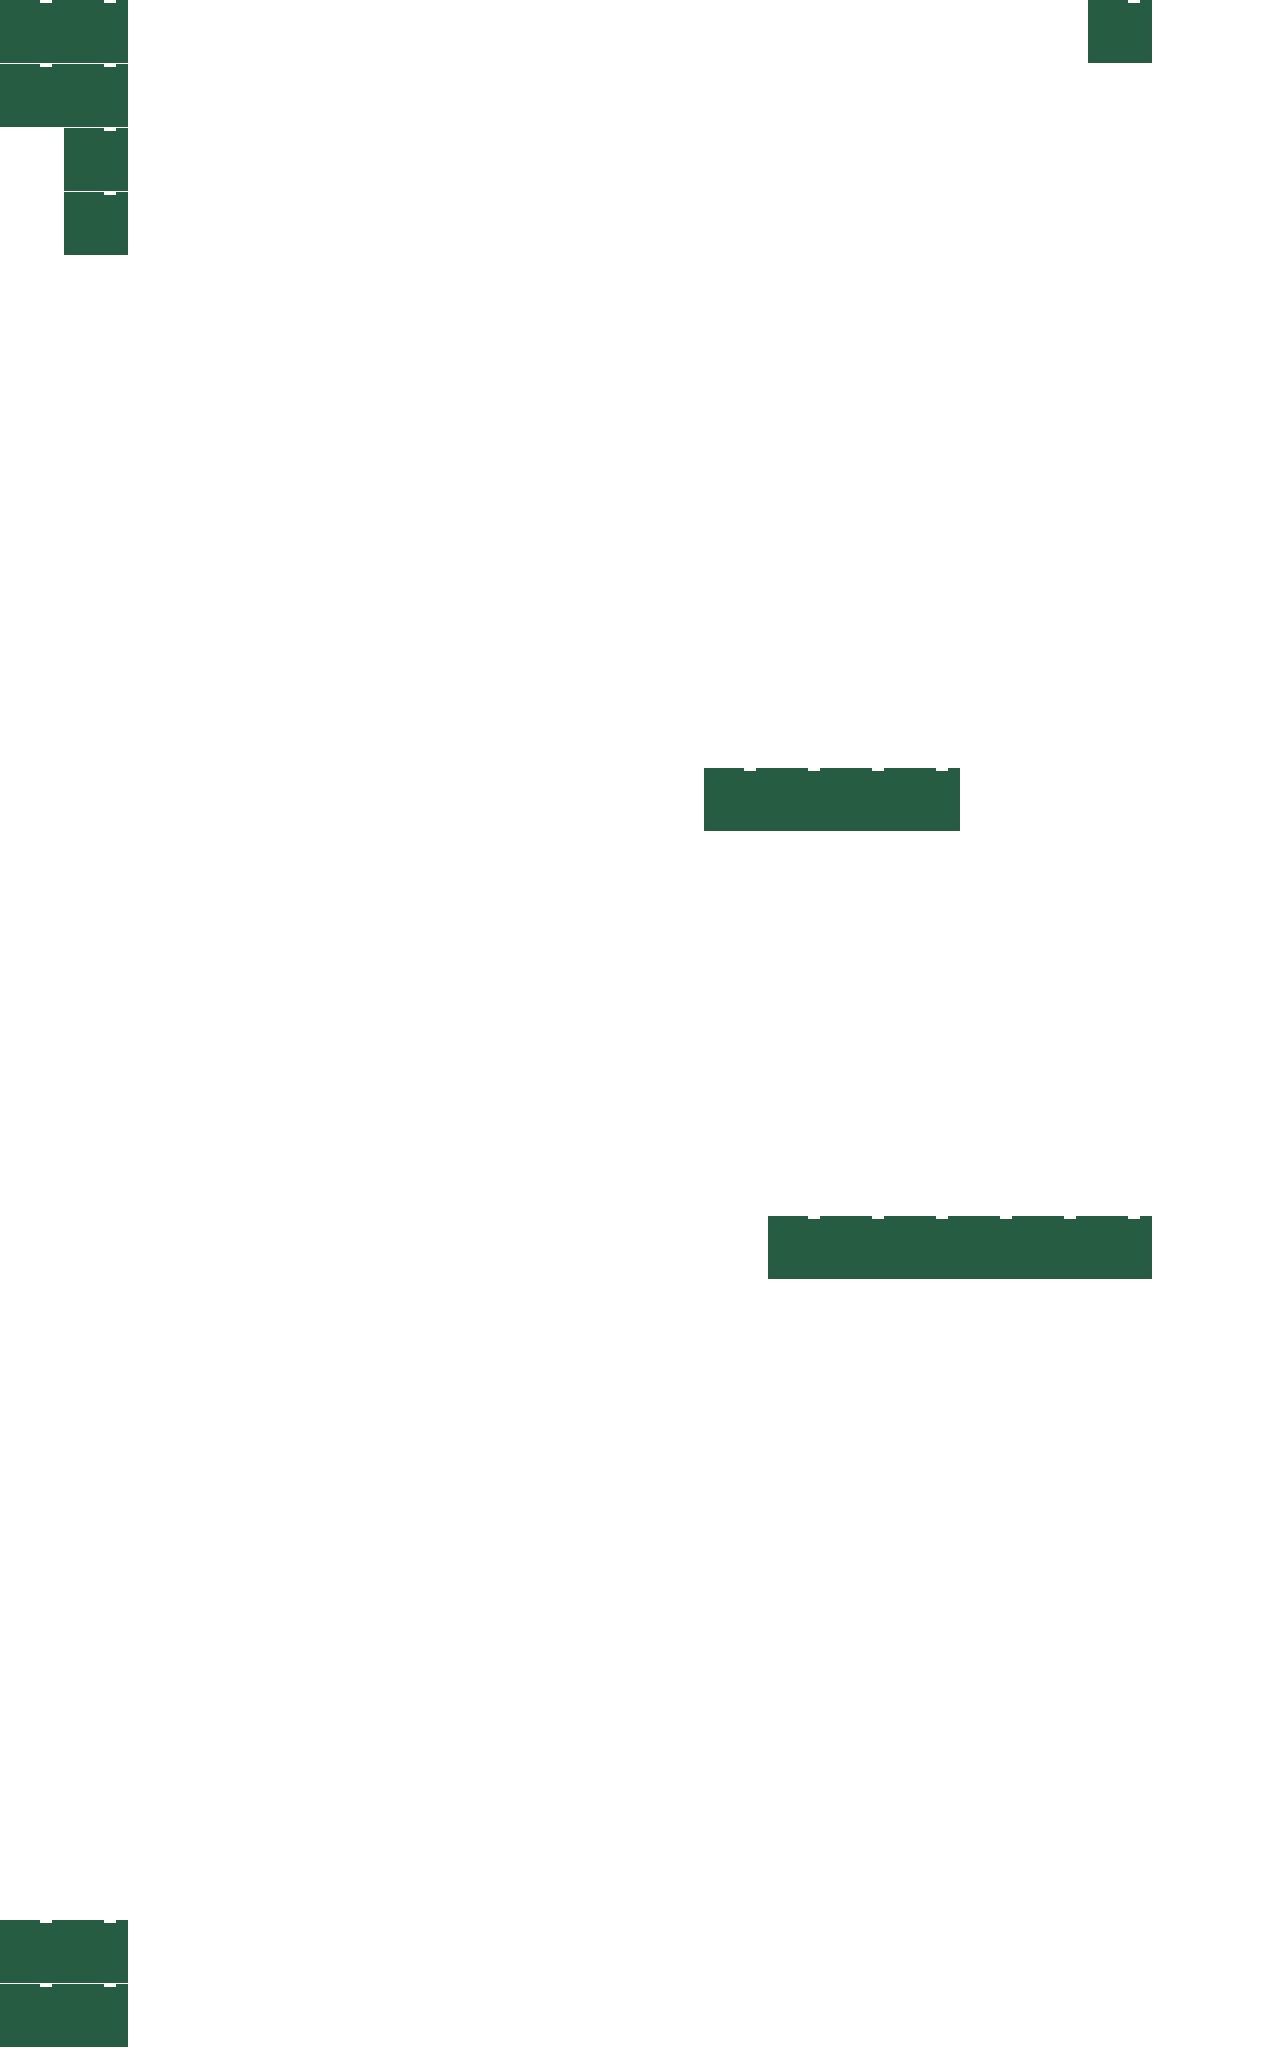
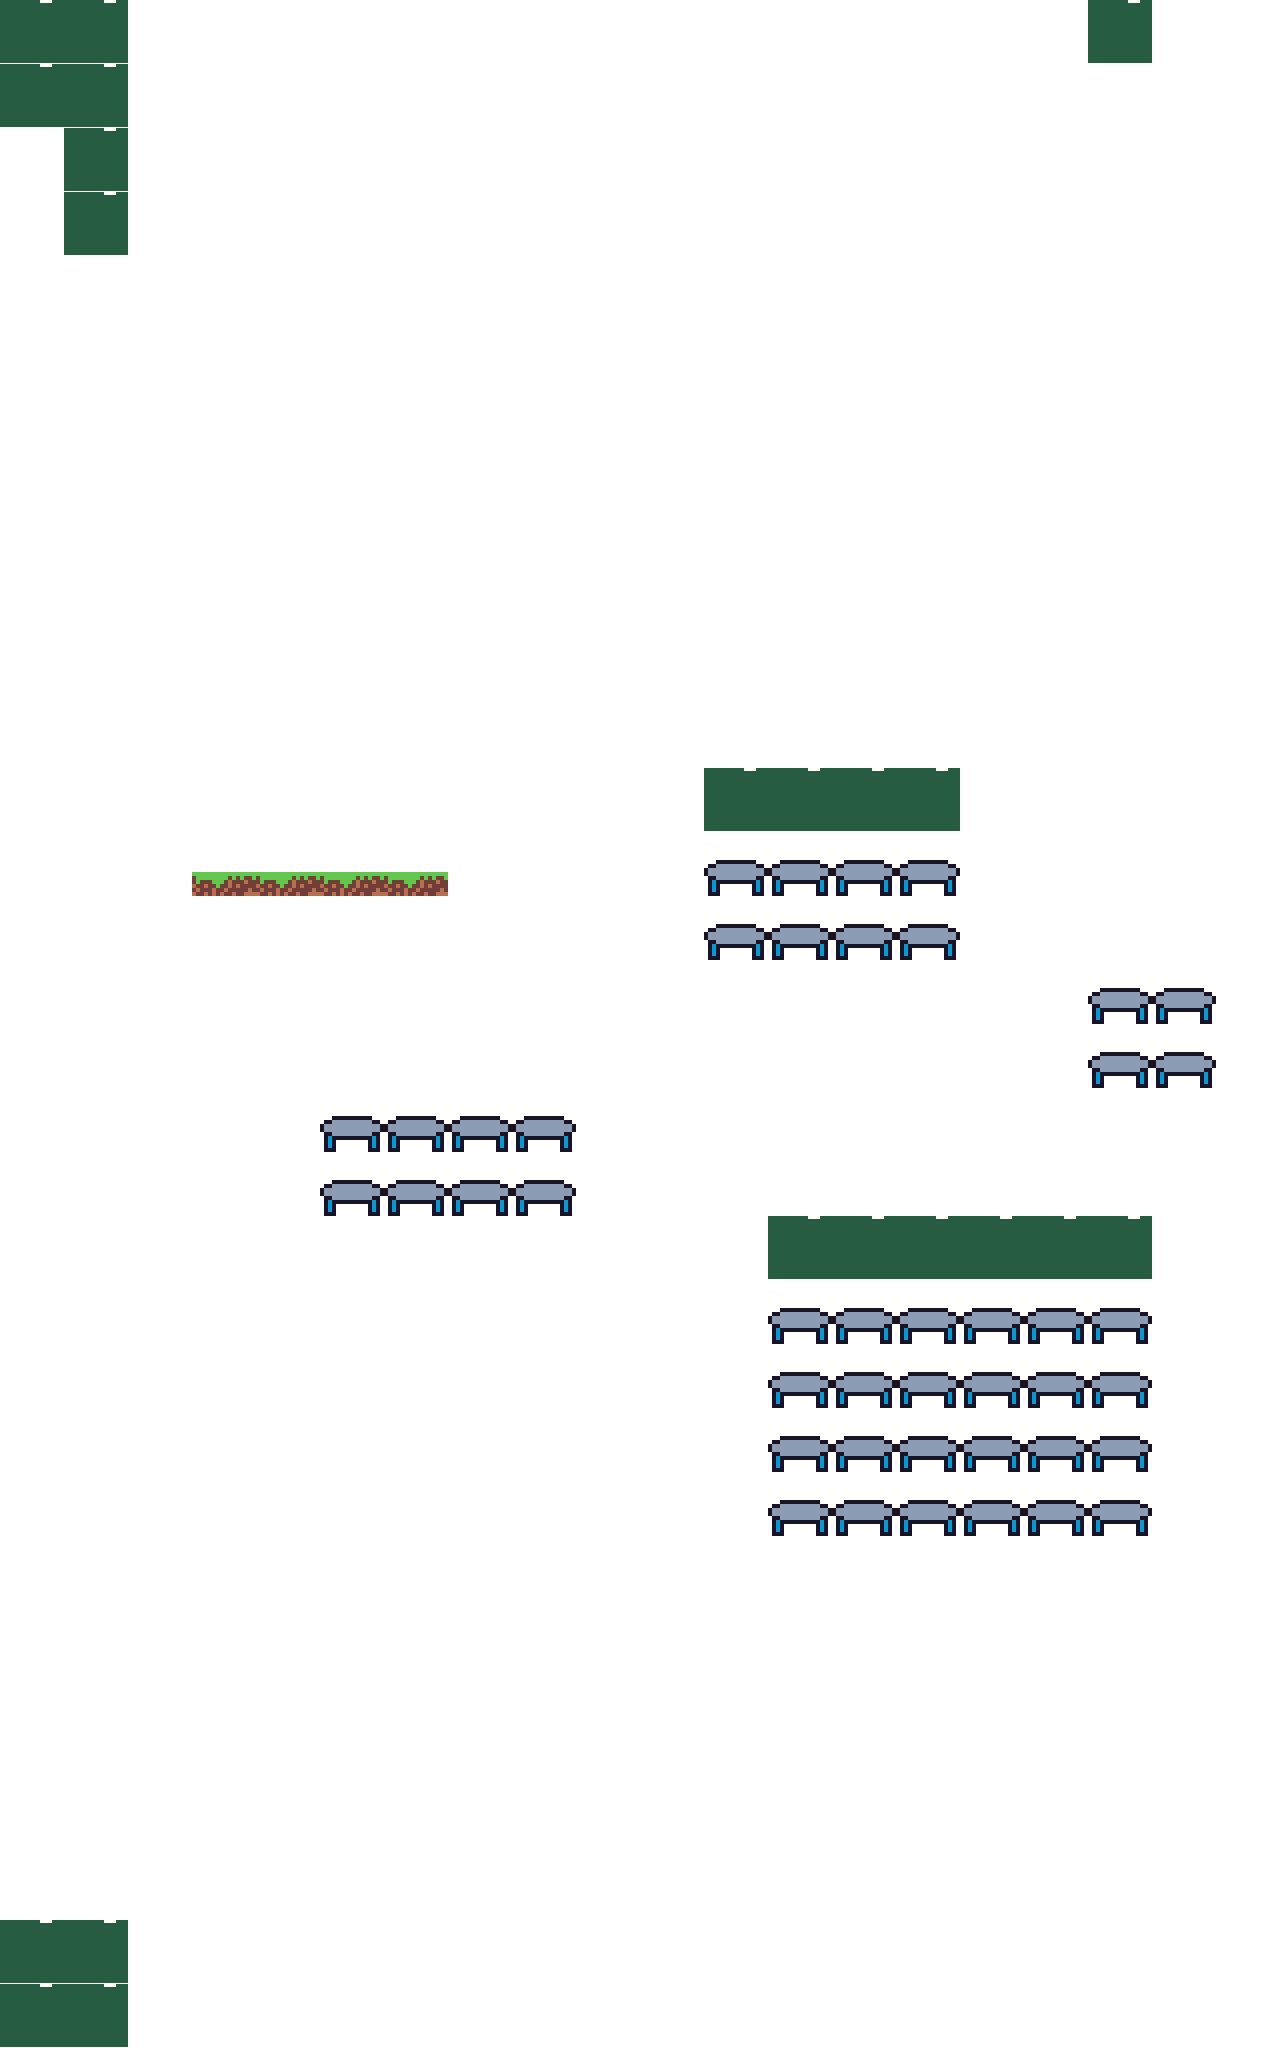
loading entity mesh textures based off region of image

diff --git a/workspaces/maploading/src/main.rs b/workspaces/maploading/src/main.rs
@@ -1,9 +1,14 @@
 use bevy::prelude::*;
 use bevy_ecs_tilemap::prelude::*;
 use bevy::math::primitives::Rectangle;
+use bevy::asset::LoadState;
 use serde::Deserialize;
 use std::collections::HashMap;
 use std::path::Path;
+
+use bevy::render::mesh::{Indices, MeshVertexAttribute};
+use bevy::render::render_asset::RenderAssetUsages;
+use bevy::render::render_resource::PrimitiveTopology;
 
 const MAP_NAME: &str = "level1";
 
@@ -138,14 +143,78 @@ struct EntityFile {
     entities: HashMap<String, EntityData>,
 }
 
+fn make_textured_rect(
+    width: f32,
+    height: f32,
+    tex_x: f32,
+    tex_y: f32,
+    tex_w: f32,
+    tex_h: f32,
+    atlas_w: f32,
+    atlas_h: f32,
+) -> Mesh {
+    let mut mesh = Mesh::new(PrimitiveTopology::TriangleList, RenderAssetUsages::RENDER_WORLD);
+
+    // Rectangle vertices centered at origin
+    let hw = width / 2.0;
+    let hh = height / 2.0;
+
+    // Positions (X, Y, Z)
+    mesh.insert_attribute(
+        Mesh::ATTRIBUTE_POSITION,
+        vec![
+            [-hw, -hh, 0.0], // bottom left
+            [ hw, -hh, 0.0], // bottom right
+            [ hw,  hh, 0.0], // top right
+            [-hw,  hh, 0.0], // top left
+        ],
+    );
+
+    // UV coordinates (normalized)
+    let u_min = tex_x / atlas_w;
+    let v_min = 1.0 - (tex_y + tex_h) / atlas_h;
+    let u_max = (tex_x + tex_w) / atlas_w;
+    let v_max = 1.0 - tex_y / atlas_h;
+
+    mesh.insert_attribute(
+        Mesh::ATTRIBUTE_UV_0,
+        vec![
+            [u_min, v_min],
+            [u_max, v_min],
+            [u_max, v_max],
+            [u_min, v_max],
+        ],
+    );
+
+    // Indices (two triangles)
+    mesh.insert_indices(Indices::U32(vec![
+        0, 1, 2,
+        0, 2, 3,
+    ]));
+
+    mesh
+}
 
 pub fn spawn_entity_rectangles(
     mut commands: Commands,
     mut meshes: ResMut<Assets<Mesh>>,
     mut materials: ResMut<Assets<ColorMaterial>>,
     map_data: Res<MapFile>,
+    map_textures: Res<MapTextureHandles>,
+    images: Res<Assets<Image>>,
+    asset_server: Res<AssetServer>,
 ) {
     let map_height = map_data.metadata.rows as f32 * map_data.metadata.tile_size_px as f32;
+
+    // ✅ Use the handle stored in MapTextureHandles
+    match asset_server.get_load_state(&map_textures.entity) {
+        Some(LoadState::Loaded) => {
+            // ready to use the image
+        }
+        _ => return,
+    }
+    let atlas = images.get(&map_textures.entity).unwrap();
+    let atlas_size = atlas.size_f32();
 
     for (id, entity) in &map_data.entities {
         let b = &entity.boundary;
@@ -153,17 +222,21 @@ pub fn spawn_entity_rectangles(
         let x = b.startX + b.width / 2.0;
         let y = map_height - (b.startY + b.height / 2.0);
 
-        let color = match entity.kind.as_str() {
-            "platform" => Color::srgb(0.2, 0.8, 0.3),
-            "enemy" => Color::srgb(0.8, 0.2, 0.2),
-            _ => Color::srgba(0.6, 0.6, 0.6, 0.8),
-        };
+        let mesh = make_textured_rect(
+            b.width,
+            b.height,
+            b.startX,
+            b.startY,
+            b.width,
+            b.height,
+            atlas_size.x,
+            atlas_size.y,
+        );
 
         commands.spawn((
-            Mesh2d(meshes.add(Rectangle::default())),
-            MeshMaterial2d(materials.add(color)),
-            Transform::from_xyz(x, y, 0.0)
-                .with_scale(Vec3::new(b.width, b.height, 1.0)),
+            Mesh2d(meshes.add(mesh)),
+            MeshMaterial2d(materials.add(Color::WHITE)),
+            Transform::from_xyz(x, y, 0.0),
             Name::new(format!("Entity {id}")),
         ));
     }
@@ -290,12 +363,11 @@ fn main() {
                 .set(ImagePlugin::default_nearest()),
         )
         .add_plugins(TilemapPlugin)
-        .add_systems(Startup, (load_map_data, spawn_map_entities ).chain())
+        .add_systems(Startup, (load_map_data, spawn_map_entities, spawn_entity_rectangles).chain())
         .add_systems(
             Update,
             (
                 handle_keyboard_input,
-                spawn_entity_rectangles,
                 handle_mouse_input,
                 move_camera_with_arrows, // 👈 added
                 exit_app.run_if(input_just_pressed(KeyCode::Escape)),
